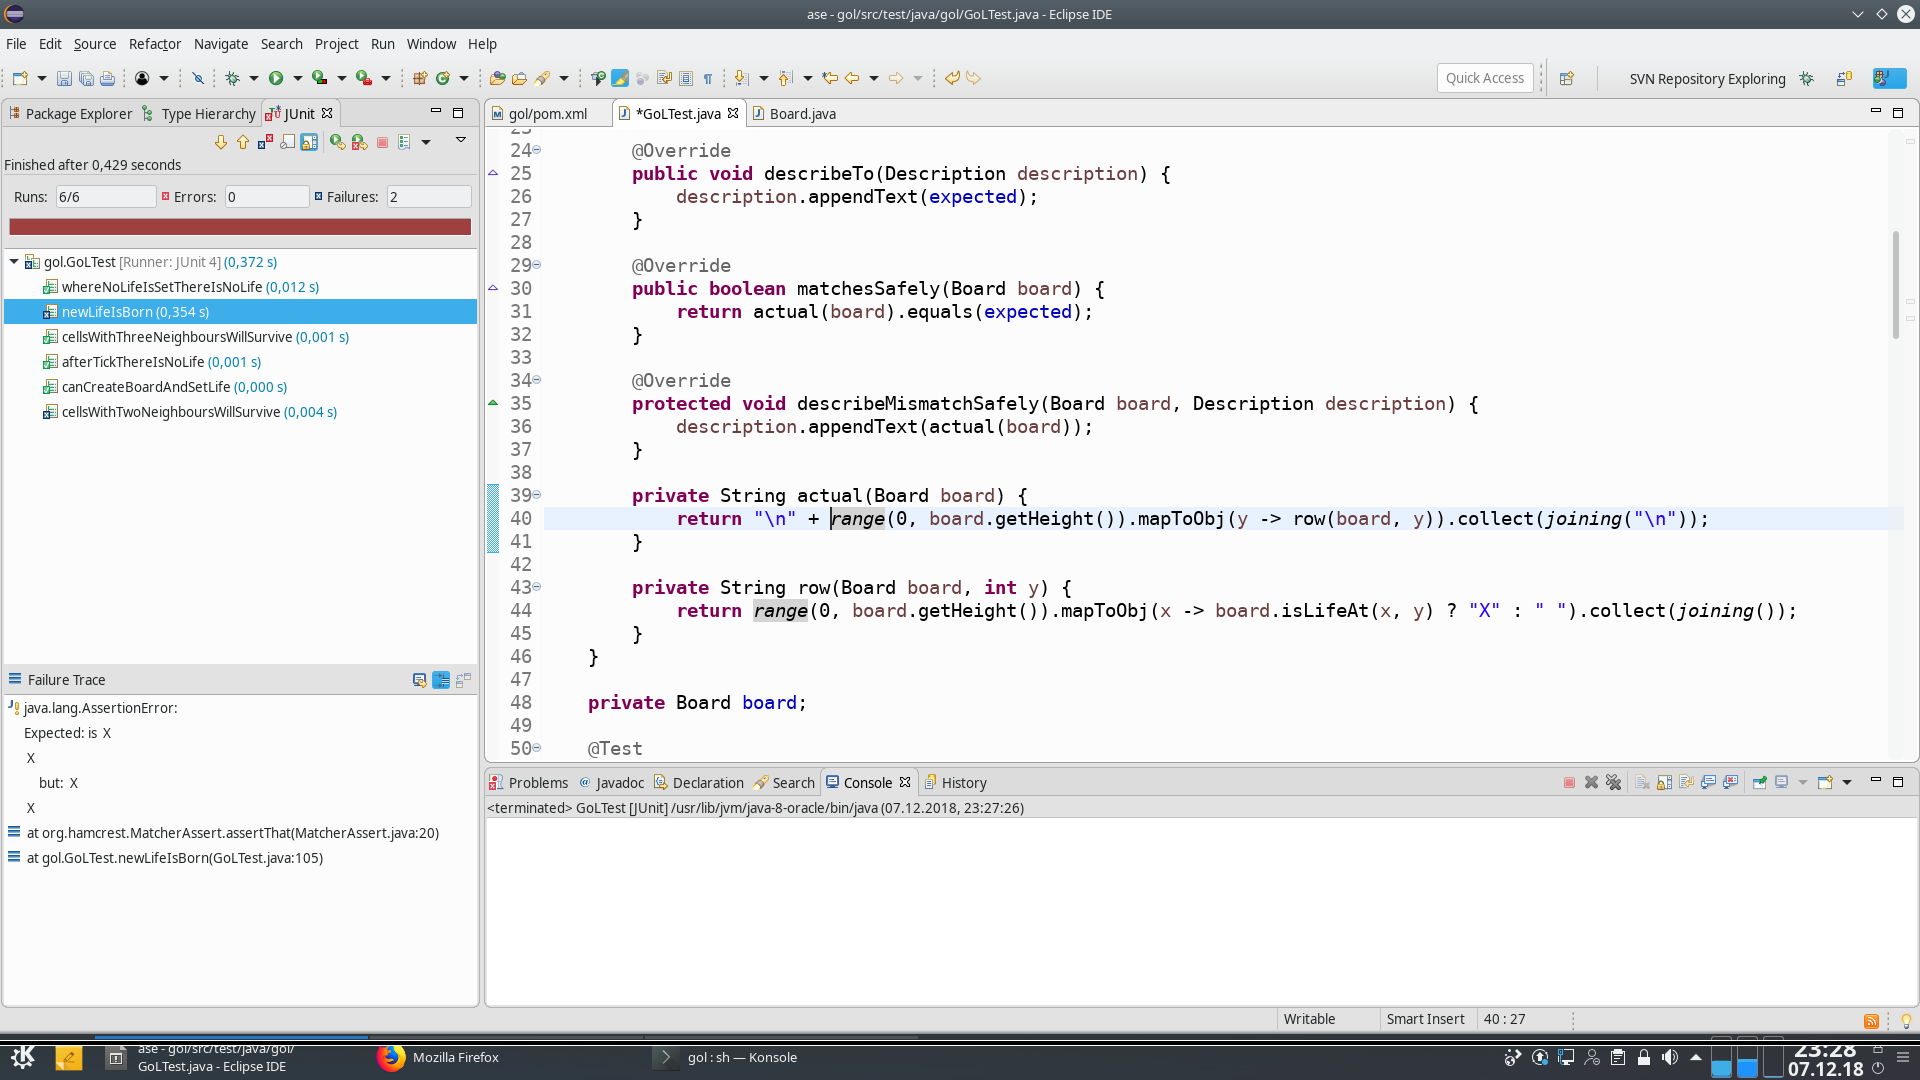
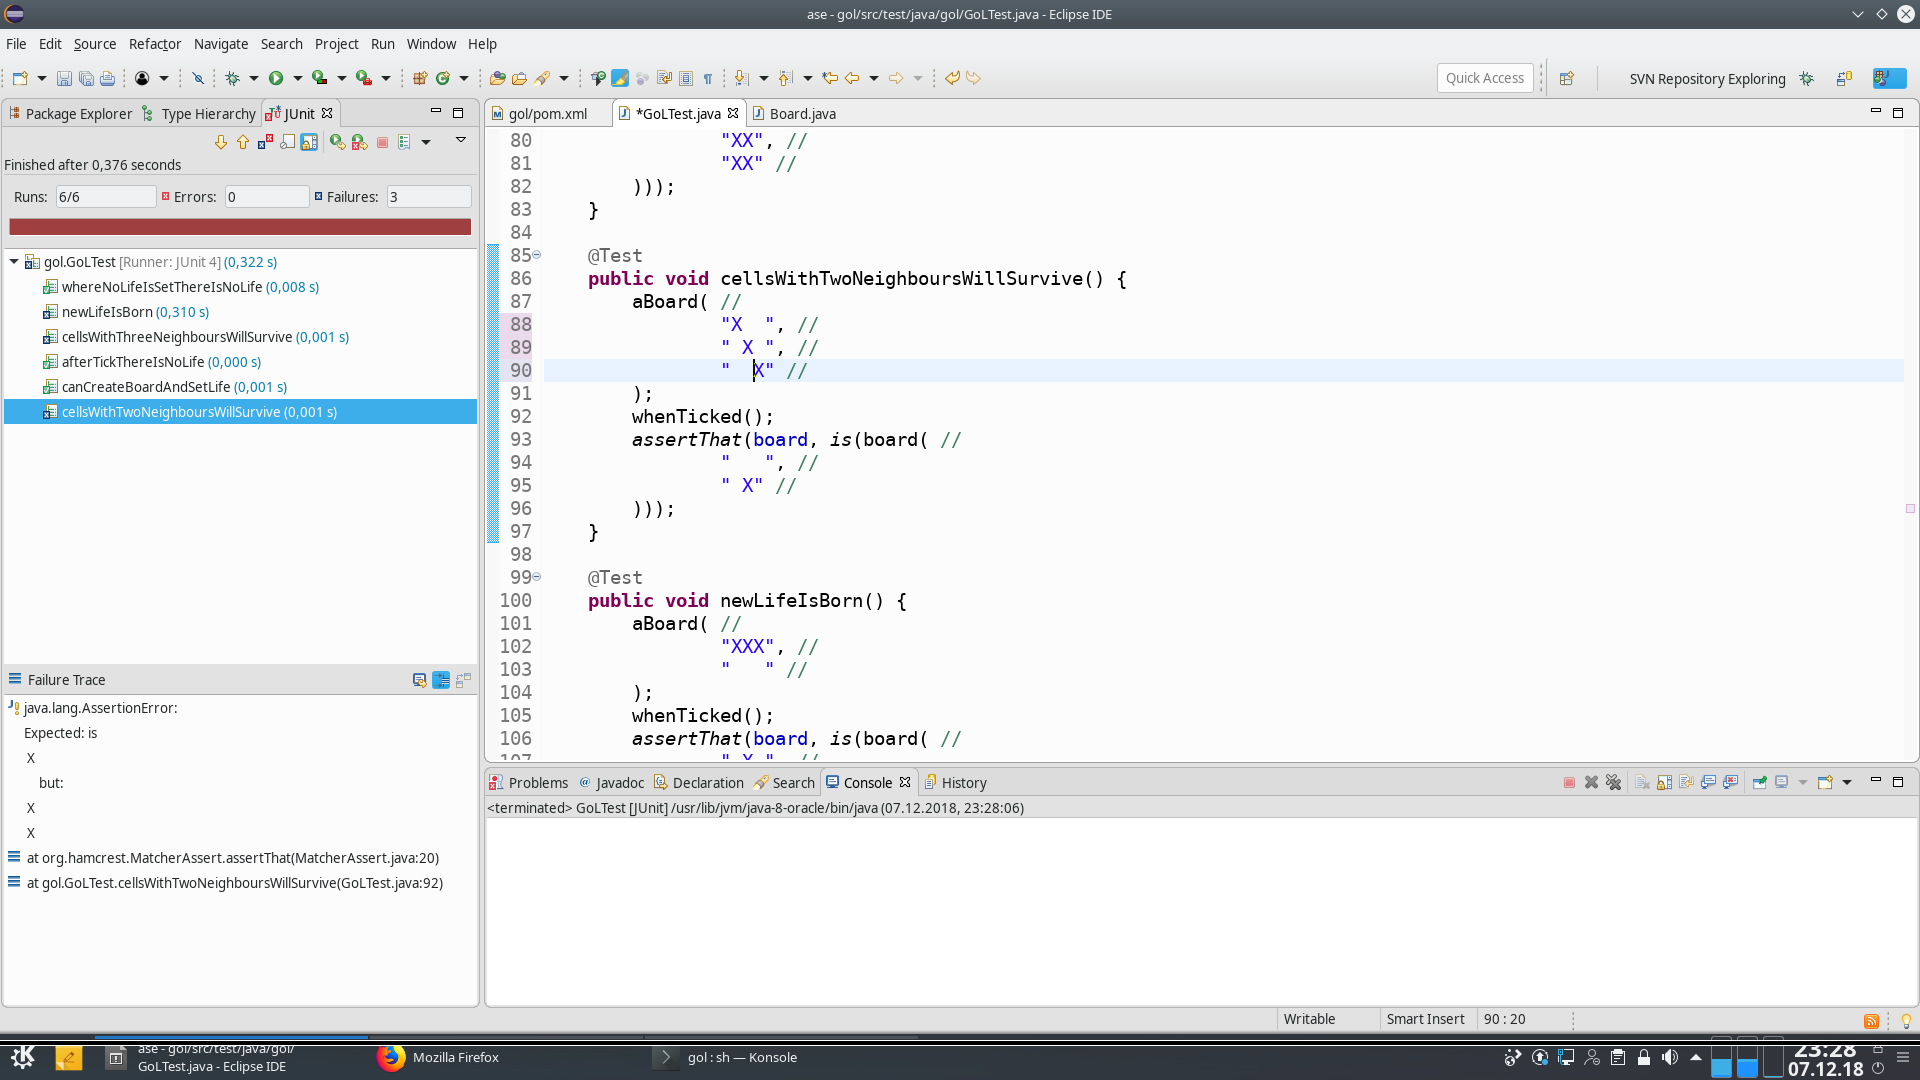
autocommit on change

diff --git a/src/test/java/gol/GoLTest.java b/src/test/java/gol/GoLTest.java
@@ -85,8 +85,9 @@ public class GoLTest {
 	@Test
 	public void cellsWithTwoNeighboursWillSurvive() {
 		aBoard( //
-				"X X", //
-				" X " //
+				"X  ", //
+				" X ", //
+				"  X" //
 		);
 		whenTicked();
 		assertThat(board, is(board( //
